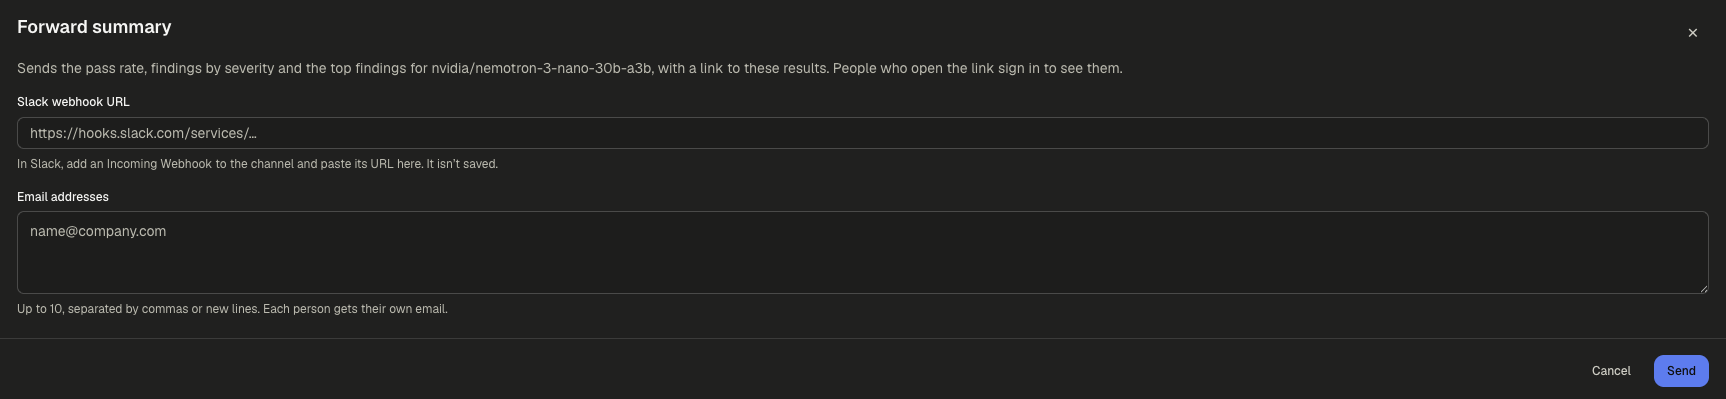
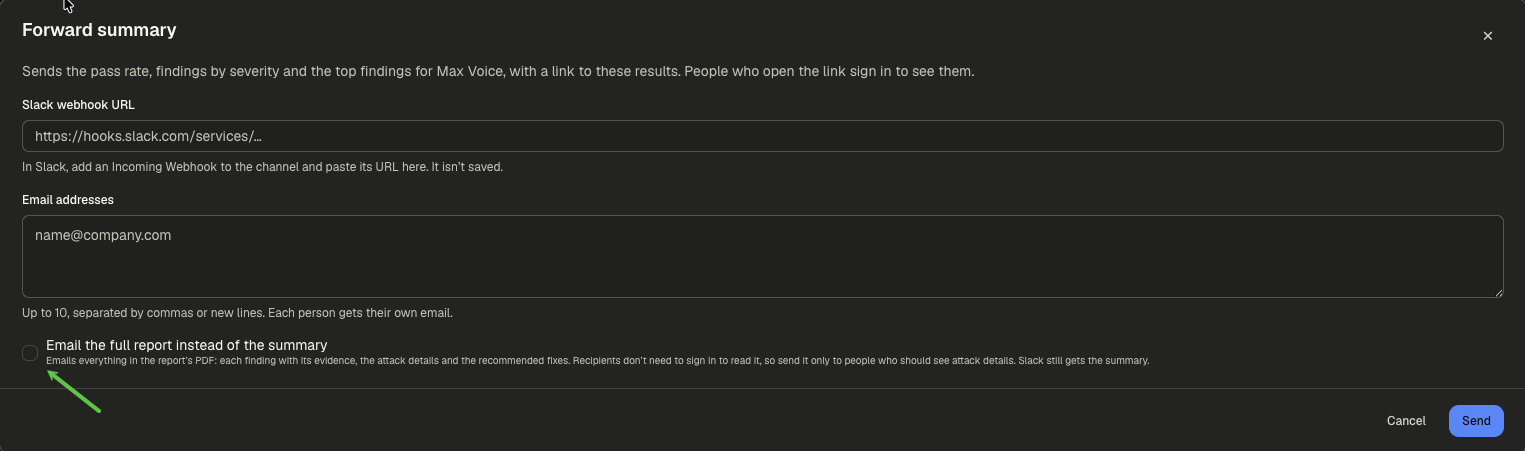
Red Teaming: document emailing the full report from Forward summary

diff --git a/docs/red-teaming/results-and-reports/share-results.md b/docs/red-teaming/results-and-reports/share-results.md
@@ -3,24 +3,30 @@ sidebar_position: 4
 sidebar_label: "Share results"
 sidebar_custom_props:
   icon: Link
-description: "Forward a run summary to a Slack channel or email addresses."
-aliases: [forward summary, slack, email, share]
+description: "Forward a run summary to a Slack channel or email addresses, or email the full report as a PDF."
+aliases: [forward summary, slack, email, share, full report, pdf]
 ---
 
 # Share results
 
-Forward a run's summary to a Slack channel or to email addresses, so the development team, security leads, or anyone else who needs to act sees the interesting findings without hunting for them.
+Forward a run's summary to a Slack channel or to email addresses, or email the full report as a PDF, so the development team, security leads, or anyone else who needs to act sees the findings without hunting for them.
 
 ## What gets sent
 
-The summary includes the run's pass rate, its findings by severity, and its top findings, with a link to the full results in the console. People who open the link sign in to see them, so results are never exposed to someone without access.
+You can send either the summary or the full report.
+
+| What you send | Contents | Who can read it | Sent to |
+| --- | --- | --- | --- |
+| Summary (default) | The run's pass rate, its findings by severity, and its top findings, with a link to the full results in the console. | Only people who sign in to the console. | Slack and email |
+| Full report | Everything in the report's PDF: each finding with its evidence, the attack details, and the recommended fixes. | Anyone who receives the email, without signing in. | Email only. Slack still gets the summary. |
 
 ## Forward a summary
 
 1. Open the run. See [Run details](./run-details.md).
 2. Select **Forward summary** at the top right.
 3. Fill in one or both destinations, described below.
-4. Select **Send**.
+4. Optional: to email the full report as a PDF instead of the summary, select **Email the full report instead of the summary**.
+5. Select **Send**.
 
 ![A run details page for nvidia/nemotron-3-nano-30b-a3b, Model, Risk grade F, with the Forward summary button highlighted among the action buttons.](/img/red-teaming/share/1-forward-button.png)
 
@@ -34,10 +40,17 @@ You can send to Slack, to email, or to both at once.
 | --- | --- | --- |
 | Slack webhook URL | The incoming webhook URL of the Slack channel to post to, starting with `https://hooks.slack.com/services/`. | In Slack, add an Incoming Webhook to the channel first, then paste its URL here. The URL is not saved. |
 | Email addresses | Up to 10 addresses, separated by commas or new lines. | Each person gets their own email. |
+| Email the full report instead of the summary | Select the check box to email the full report as a PDF. | Applies to email only. Slack still gets the summary. |
 
-![The Forward summary dialog with a Slack webhook URL field, an Email addresses box, and Cancel and Send buttons.](/img/red-teaming/share/2-forward-dialog.png)
+![The Forward summary dialog with a Slack webhook URL field, an Email addresses box, the Email the full report instead of the summary check box, and Cancel and Send buttons.](/img/red-teaming/share/2-forward-dialog.png)
 
-*Figure 2. The Forward summary dialog.*
+*Figure 2. The Forward summary dialog. The check box at the bottom sends the full report instead of the summary.*
+
+:::warning
+
+The full report contains attack details and can be read without signing in to the console. Send it only to people who should see those details.
+
+:::
 
 :::note
 
